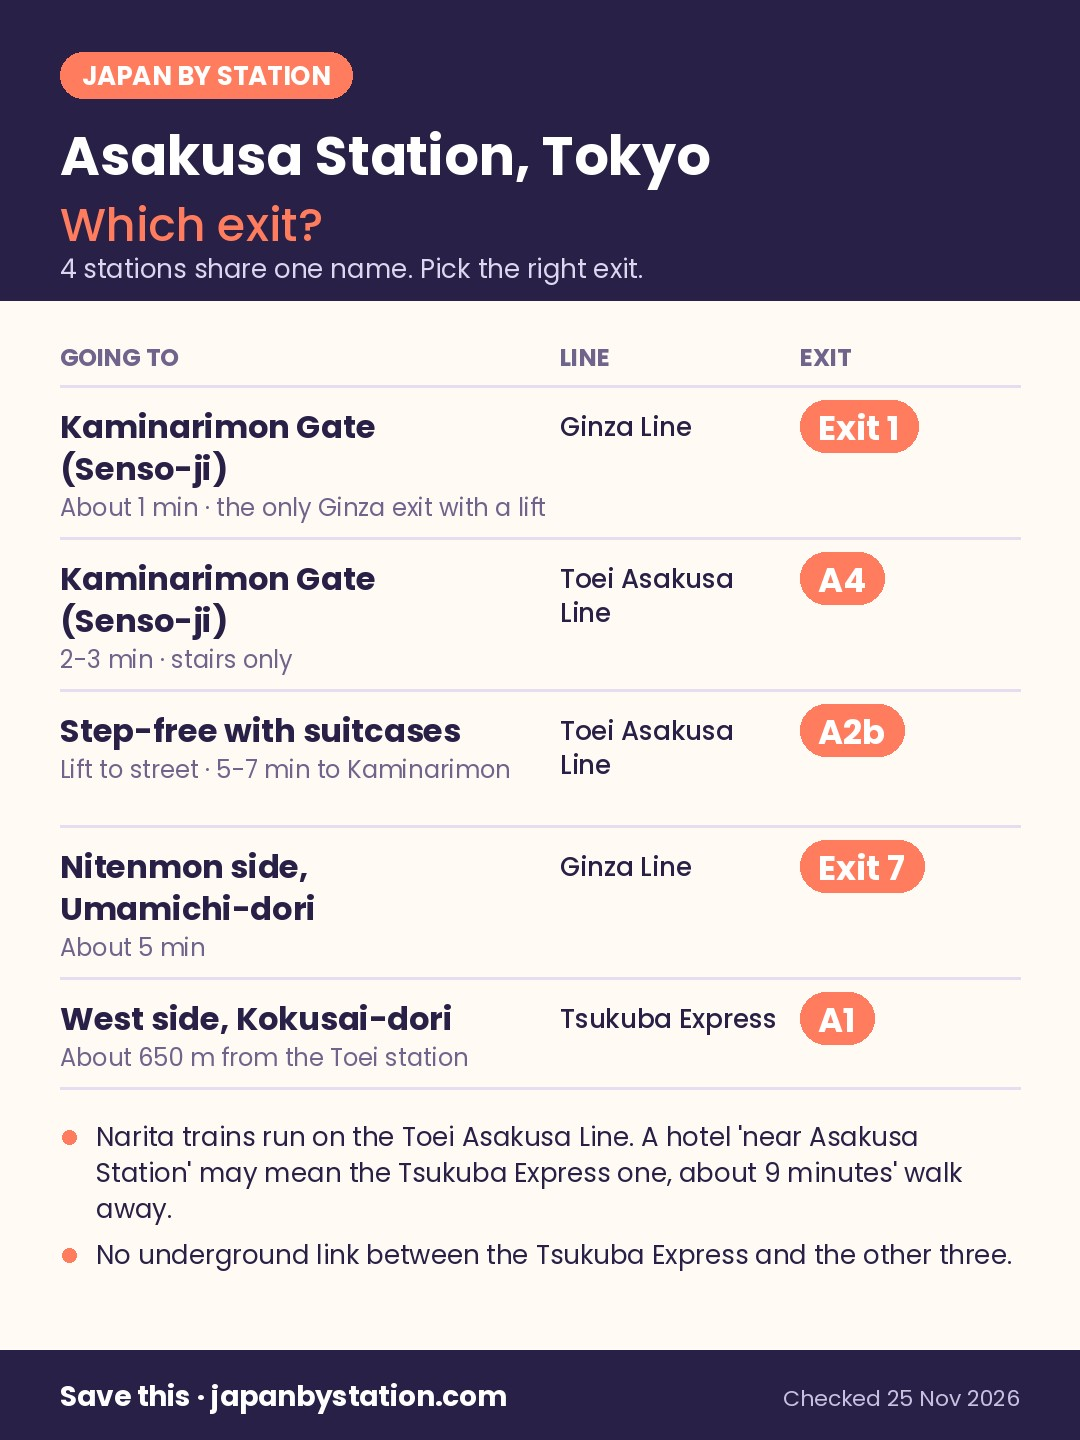
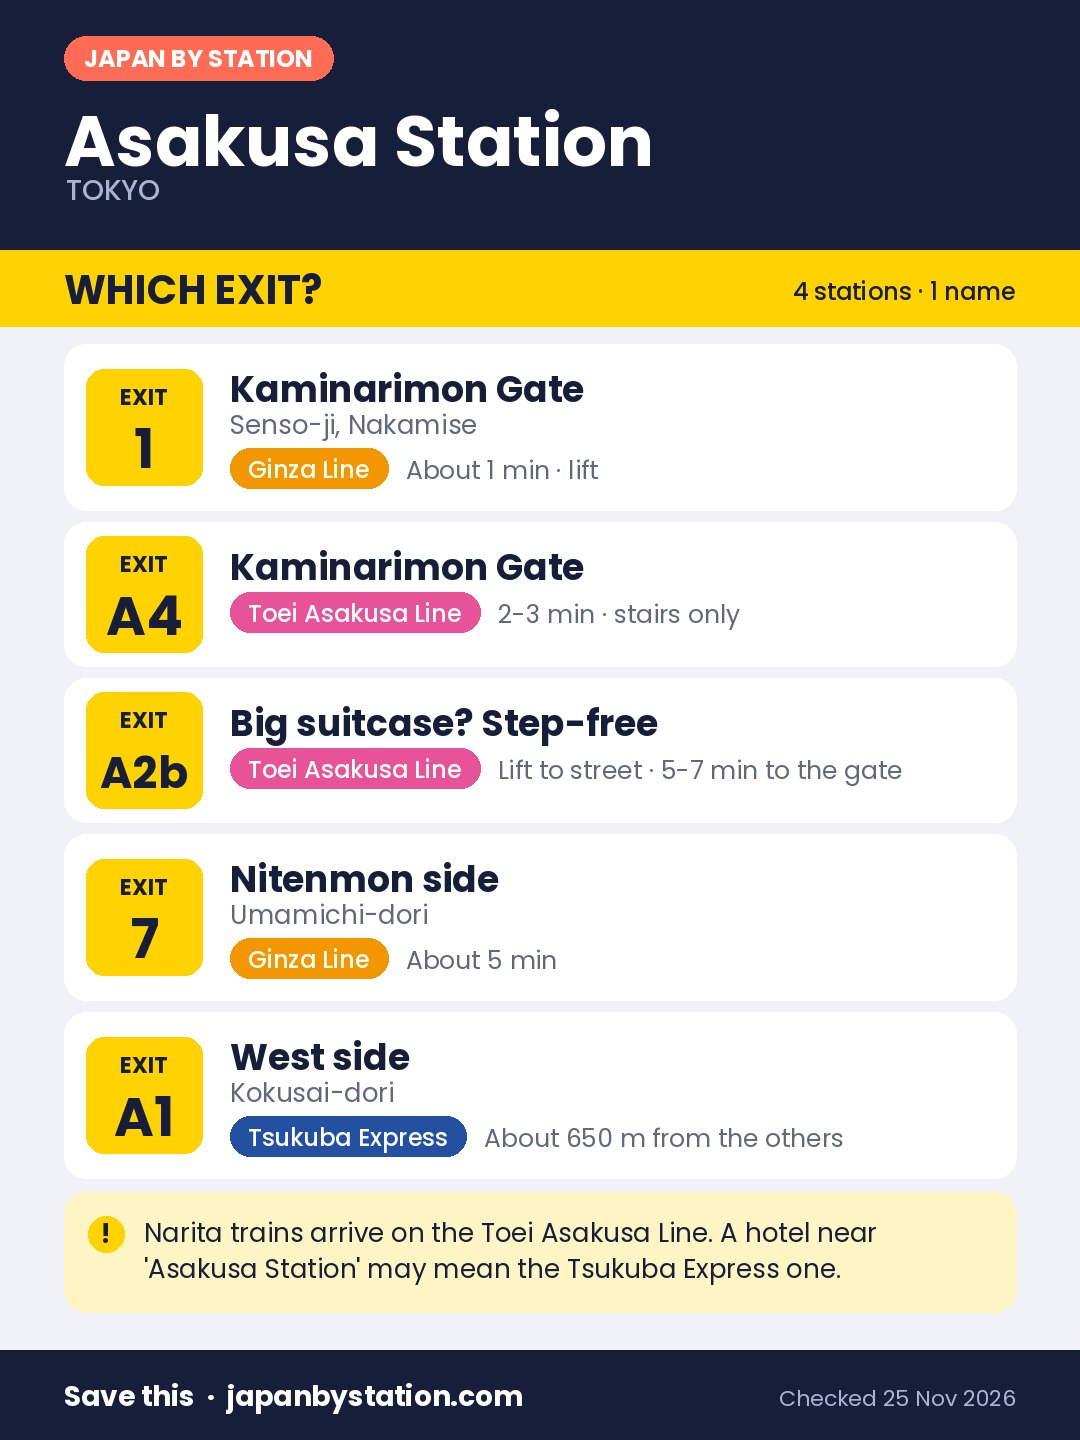
Asakusa exit card v2

diff --git a/asakusa-which-station-from-narita.html b/asakusa-which-station-from-narita.html
@@ -51,6 +51,7 @@
 <section class="band umeda" id="arrival" aria-labelledby="h-a"><div class="wrap">
   <span class="count">Answer A · Match your airport train to its station</span>
   <figure class="photo exitcard" style="margin:18px 0 26px"><a href="/exitcards/asakusa-which-station-from-narita.jpg" download="asakusa-station-which-exit-japanbystation.jpg"><img src="/exitcards/asakusa-which-station-from-narita.jpg" alt="Asakusa Station, Tokyo: which exit to use for Kaminarimon Gate, step-free access, Nitenmon and Kokusai-dori, by line (Ginza, Toei Asakusa, Tsukuba Express)" loading="lazy" width="1080" height="1440" style="max-width:520px;width:100%;border-radius:14px"></a><figcaption>📌 Save this: Asakusa Station exit cheat sheet. Tap the image to download it to your phone (checked 25 Nov 2026).</figcaption></figure>
+  <p class="tip" style="margin:-8px 0 24px">📶 Want maps working the moment you land at Narita? A <a href="https://www.airalo.com/japan-esim" rel="sponsored noopener" target="_blank">Japan eSIM you set up before you fly</a> saves hunting for Wi-Fi at the airport.</p>
   <div class="sec-h" style="margin-top:6px"><h2 id="h-a">The Access Express ends up at Toei Asakusa</h2><span>70 min · ¥1,380 · no change</span></div>
   <p class="sec intro" style="margin-top:10px">Our sample Access Express left Narita Terminal 1 at 15:09. At Oshiage it simply continues onto the Toei Asakusa Line (you stay seated) and reaches Asakusa at 16:19. That is the cheapest easy way in, and it puts you at the Toei station near Azuma-bashi bridge and Kaminarimon-dori.</p>
   <p class="sec intro">The other airport routes land at different Asakusas. The Skyliner to Keisei-Ueno plus the Ginza Line reaches the Ginza Line's Asakusa station (16:24, ¥2,760); the Skyliner with a change at Aoto reaches the Toei station faster (16:06, ¥2,430). Reaching the <b>Tsukuba Express</b> Asakusa station took two changes on our search, Skyliner, JR Yamanote Line and TX via Akihabara: 16:30 and ¥3,010.</p>
